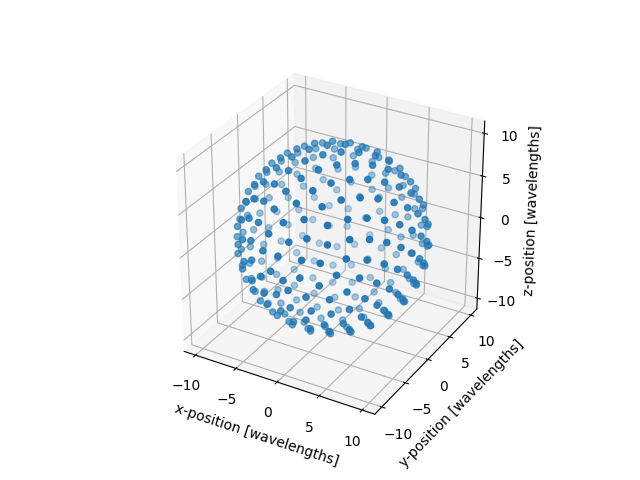
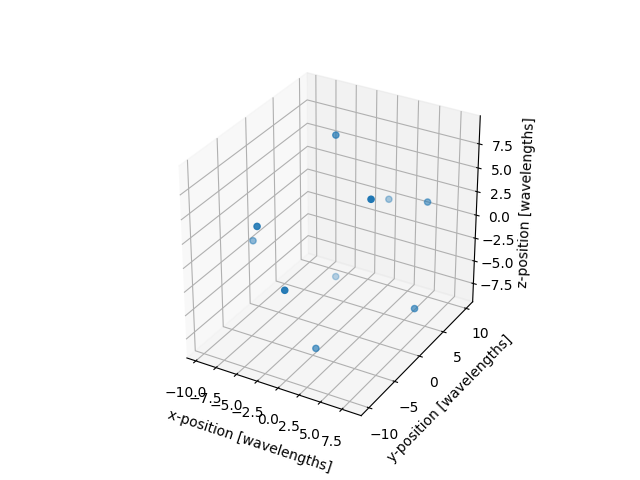
started scattering

Changed region(s): [[0.2812, 0.1562, 0.8438, 0.9688], [0.25, 0.7812, 0.5625, 1.0]]

diff --git a/MUSIC/scattering_imaging.py b/MUSIC/scattering_imaging.py
@@ -1,0 +1,80 @@
+import numpy as np
+from misc_functions import dyadic_green, scalar_green, plot_sensors
+
+#Faster if run thousand times with njit
+def make_sensors(N_sensors,sensor_radius):
+    sensors = np.zeros((N_sensors,3))
+    phi = np.pi * (3. - np.sqrt(5.))  # golden angle in radians
+
+    for i in range(N_sensors):
+        y = (1 - (i / float(N_sensors - 1)) * 2)  # y goes from 1 to -1
+        radius = np.sqrt(1 - y * y)  # radius at y
+
+        theta = phi * i  # golden angle increment
+
+        x = np.cos(theta) * radius
+        z = np.sin(theta) * radius
+
+        x,y,z = x*sensor_radius, y*sensor_radius, z*sensor_radius
+
+        sensors[i] = [x,y,z]
+    return np.ascontiguousarray(sensors.T)
+
+def make_emitters(N_emitters,emitter_radius):
+    emitters = make_sensors(N_emitters,emitter_radius)
+
+    r = emitter_radius
+    theta = 
+    exit()
+    return np.ascontiguousarray(emitters.T)
+
+def scattered_field(dipoles,emitter_loc,sensors,k_0):
+    E_i = dyadic_green(dipoles.T,emitter_loc,k_0)[:,0]
+
+    E_s = np.zeros((sensors.shape[1],3),dtype=np.complex128)
+    for i,dipole in enumerate(dipoles):
+        G = dyadic_green(sensors,dipole,k_0)
+        E_s += G@E_i[i]
+
+    return E_s
+
+#Slower if njit because of dyadic green dependecy
+def sensor_field(sensors,emitters,dipoles,polarizations,N_sensors,N_emitters,k_0):
+    M_inputs = 3*N_emitters-2
+    E_tot = np.zeros((3*N_sensors,M_inputs),dtype=np.complex128)
+
+    for emitter_loc in emitters.T:
+        E_s = scattered_field(dipoles,emitter_loc,sensors,k_0)
+        E_i = dyadic_green(sensors,emitter_loc,k_0)[:,0]
+        print(E_s.shape,E_i.shape)
+        exit()
+
+
+    return E_tot
+
+#Slower if njit because dependencies
+def scattering_data(dipoles,sensor_radius,N_sensors,N_emitters,k_0):
+    N_dipoles = len(dipoles)
+    M_inputs = 3*N_emitters-2
+
+    phi = np.random.uniform(0,2*np.pi,(N_dipoles,M_inputs))
+    theta = np.random.uniform(-np.pi/2,np.pi/2,(N_dipoles,M_inputs))
+
+    phi = np.ones_like(phi)
+    theta = np.ones_like(theta)
+
+    polarizations = np.array([np.cos(phi)*np.sin(theta),
+                              np.sin(phi)*np.sin(theta),
+                              np.cos(theta)]).swapaxes(0,1)
+
+
+    sensors = make_sensors(N_sensors,sensor_radius)
+    emitters = make_emitters(N_emitters,sensor_radius)
+
+    for i in range(len(emitters.T)):
+        print(np.abs(np.sum(emitters.T[i].reshape(1,3)-sensors.T,axis=1)).min())
+    exit()
+
+    E_sensors = sensor_field(sensors,emitters,dipoles,polarizations,N_sensors,N_emitters,k_0)
+
+    return E_sensors, sensors, emitters

diff --git a/MUSIC/intensity_only_MUSIC.py b/MUSIC/intensity_only_MUSIC.py
@@ -50,32 +50,82 @@ def dyadic_green_FoV_2D(sensors,xx,yy,zz,N_sensors,grid_size,k_0):
 
     return G
 
-def intensity_P_estimation(I,sensors,N_recon,FoV,k_0):
+def test_func(pos,sensors,k_0):
+
+    r_p = sensors-pos
+
+    R = np.sqrt(np.sum((r_p)**2,axis=0))
+    R_hat = ((r_p)/R)
+
+    RR_hat = np.einsum('ik,jk->ijk',R_hat,R_hat)
+
+    g_R = np.exp(1j*k_0*R)/(4*np.pi*R)
+    expr_1 = (3/(k_0**2*R**2)-3j/(k_0*R)-1)*g_R
+    expr_2 = (1+1j/(k_0*R)-1/(k_0**2*R**2))*g_R
+
+    I = np.identity(3)
+    G = (expr_1*RR_hat + expr_2*I.reshape(3,3,1)).T
+
+
+
+def intensity_P_estimation(I,sensors,N_recon,FoV,k_0,E):
     N_sensors = sensors.shape[1]
 
     I_x = I[:I.shape[0]//3]
 
     I_N = noise_space(I_x)
 
+
+
+    wl = 690e-9
+    # pos = np.array([0*wl,-1*wl,0*wl])
+    # G = dyadic_green(sensors,pos,k_0)
+    # Gx = G[:,0]
+    # Gy = G[:,1]
+    # Gz = G[:,2]
+    # G = np.append(np.append(Gx,Gy,axis=0),Gz,axis=0)
+    # I_G = np.abs(G)**2
+
+
+
+
+
+
+
+
     x = np.linspace(FoV[0][0],FoV[0][1],N_recon)
     y = np.linspace(FoV[1][0],FoV[2][1],N_recon)
     z = np.linspace(FoV[1][0],FoV[2][1],N_recon)
     xx,yy = np.meshgrid(x,y)
 
+    x_d = np.where(xx/wl==0)[1][0]
+    y_d = np.where(yy/wl==-1)[0][0]
+    z_d = np.where(z/wl==0)[0][0]
+
     G = dyadic_green_FoV_2D(sensors,xx,yy,z[N_recon//2],N_sensors,N_recon,k_0)[:,0]
 
-    print(G.shape,I_N.shape)
+    x_m = np.zeros((N_recon,N_recon,3))
+    x_m[x_d,y_d] = [0.45464871,0.70807342,0.54030231]
 
-    # test = G[:,0]
-    # test = np.einsum('ikl,jkl->ijkl',test,test).transpose(2,3,0,1)
+    X = test = np.einsum('ijk,ijl->ijkl',x_m,x_m).reshape(101,101,1,3,3)
+
+    test = G.transpose(2,3,0,1)
+    test = np.einsum('ijkl,ijkm->ijklm',test,test)
+    # test = test.reshape(*test.shape[:3],-1)
+
+    # print(test.shape,X.shape)
+    # Tr = np.matmul(test,X)
+    # print(Tr.shape)
+    # Tr = np.einsum('ijkll,ijkll->ijk',Tr,Tr)
+    # print(Tr.shape)
+    # print(I.shape)
+
+    # A = test.transpose(0,1,3,2)@I_N.conj()
+    # B = test.transpose(0,1,3,2).conj()@I_N
+    # C = np.matmul(A,B.transpose(0,1,3,2))
     #
-    # S = I_x@I_x.T
-    #
-    # something = test@I_N
-    # something = np.einsum('ijkl,ijkl->ijk',something,something)
-    # something = np.sum(something,axis=2).real
-    #
-    # plt.imshow(something.real)
+    # test_im = np.sum(C,axis=(2,3))
+    # plt.imshow(np.abs(test_im))
     # plt.show()
     #
     # exit()

diff --git a/MUSIC/main.py b/MUSIC/main.py
@@ -10,6 +10,7 @@ from fishbowl import *
 import json
 import os
 from intensity_only_MUSIC import *
+from scattering_imaging import *
 
 if __name__ == '__main__':
     eps_0 = 8.8541878128e-12
@@ -22,7 +23,7 @@ if __name__ == '__main__':
     omega = 2*np.pi*freq
 
     sensor_radius = 10*wl
-    dipoles = np.array([[0*wl,-2*wl,0*wl]])
+    dipoles = np.array([[0*wl, -1*wl,0*wl]])
     # dipoles = np.array([[0.8*wl,-1.2*wl,0*wl],[-1.8*wl,0*wl,0*wl]])
 
     FoV = np.array([[-2*wl,2*wl],
@@ -30,6 +31,7 @@ if __name__ == '__main__':
                     [-2*wl,2*wl]])
 
     N_sensors = 50
+    N_emitters = 10
     M_inputs = 100
     N_recon = 101
 
@@ -45,7 +47,10 @@ if __name__ == '__main__':
 
     # dipoles = np.random.uniform(-1.5*wl,1.5*wl,(5,3))
 
-    E_sensors,sensors = data_acquisition(dipoles,wl,M_inputs,sensor_radius,N_sensors,k_0)
+    # E_sensors,sensors = data_acquisition(dipoles,wl,M_inputs,sensor_radius,N_sensors,k_0)
+
+    E_sensors,sensors,emitters = scattering_data(dipoles,sensor_radius,N_sensors,N_emitters,k_0)
+
 
     # plot_sensor_field(sensors,E_sensors)
 
@@ -53,7 +58,7 @@ if __name__ == '__main__':
 
     I = np.abs(E_sensors)**2
 
-    intensity_P_estimation(I,sensors,N_recon,FoV,k_0)
+    intensity_P_estimation(I,sensors,N_recon,FoV,k_0,E_sensors)
     exit()
 
     # fishbowl(E_sensors,sensors,wl,k_0,N_recon,FoV,dipoles)

diff --git a/MUSIC/imaging.py b/MUSIC/imaging.py
@@ -37,8 +37,8 @@ def data_acquisition(dipoles,wl,M_inputs,sensor_radius,N_sensors,k_0):
     phi = np.random.uniform(0,2*np.pi,(N_dipoles,M_inputs))
     theta = np.random.uniform(-np.pi/2,np.pi/2,(N_dipoles,M_inputs))
 
-    # phi = np.ones_like(phi)
-    # theta = np.ones_like(theta)
+    phi = np.ones_like(phi)
+    theta = np.ones_like(theta)
 
     polarizations = np.array([np.cos(phi)*np.sin(theta),
                               np.sin(phi)*np.sin(theta),

diff --git a/MUSIC/misc_functions.py b/MUSIC/misc_functions.py
@@ -47,7 +47,8 @@ def plot_sensors(sensors,wl):
     ax.set_xlabel('x-position [wavelengths]')
     ax.set_ylabel('y-position [wavelengths]')
     ax.set_zlabel('z-position [wavelengths]')
-    plt.savefig('Detector_locations')
+    # plt.savefig('Detector_locations')
+    plt.show()
 
 @njit(parallel=True)
 def high_inner(A,B):

diff --git a/MUSIC/phaseLift.py b/MUSIC/phaseLift.py
@@ -166,6 +166,7 @@ def algPhaseLift(ALri,d,b):
 
 if __name__ == '__main__':
     mat_am, b, xTrue = generateSimulatedField()
+    print(mat_am.shape)
 
     ALri, d = compoMatrix4Inv(mat_am,xTrue)
 
